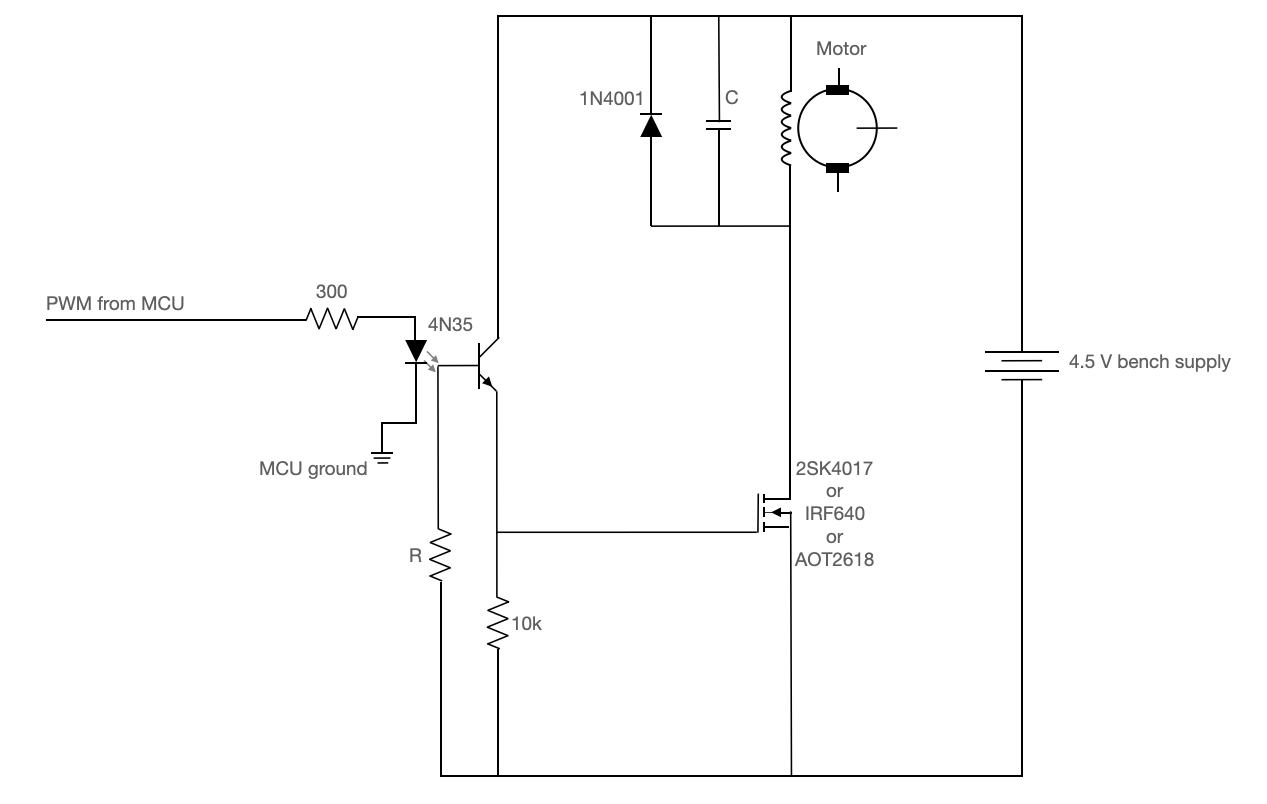
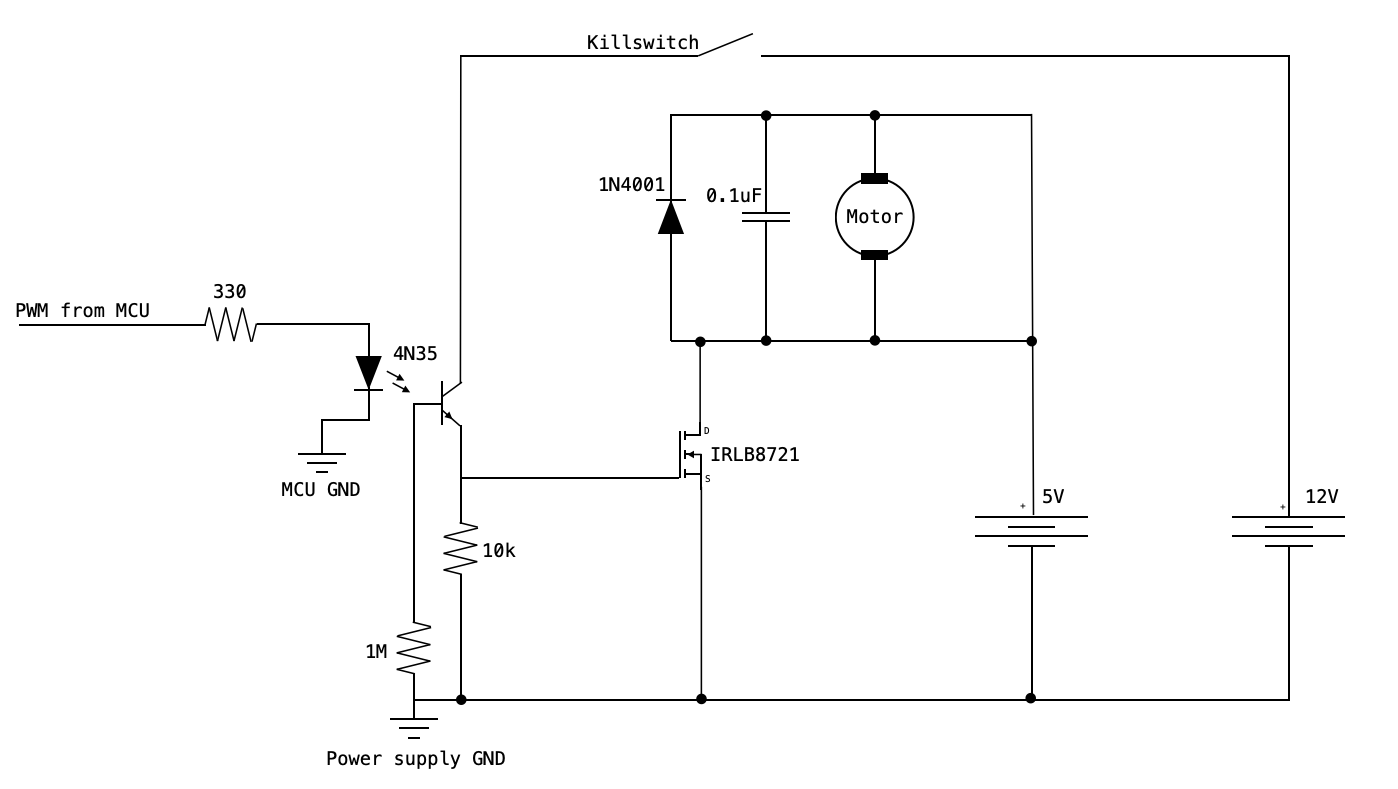
updated motor circuit page

diff --git a/Pico/Helicopter/MotorCircuit.html b/Pico/Helicopter/MotorCircuit.html
@@ -13077,7 +13077,7 @@ div#notebook {
 <div class="cell border-box-sizing text_cell rendered"><div class="prompt input_prompt">
 </div><div class="inner_cell">
 <div class="text_cell_render border-box-sizing rendered_html">
-<h1 id="DC-motor-circuit-and-PWM-on-RP2040">DC motor circuit and PWM on RP2040<a class="anchor-link" href="#DC-motor-circuit-and-PWM-on-RP2040">&#182;</a></h1><h4 id="V.-Hunter-Adams-(vha3@cornell.edu)">V. Hunter Adams (vha3@cornell.edu)<a class="anchor-link" href="#V.-Hunter-Adams-(vha3@cornell.edu)">&#182;</a></h4>
+<h1 id="DC-motor-circuit-and-PWM-on-RP2040">DC motor circuit and PWM on RP2040<a class="anchor-link" href="#DC-motor-circuit-and-PWM-on-RP2040">&#182;</a></h1><h4 id="V.-Hunter-Adams"><a href="https://vanhunteradams.com">V. Hunter Adams</a><a class="anchor-link" href="#V.-Hunter-Adams">&#182;</a></h4>
 </div>
 </div>
 </div>
@@ -13092,7 +13092,7 @@ div#notebook {
 <div class="cell border-box-sizing text_cell rendered"><div class="prompt input_prompt">
 </div><div class="inner_cell">
 <div class="text_cell_render border-box-sizing rendered_html">
-<h3 id="Overview-of-circuit">Overview of circuit<a class="anchor-link" href="#Overview-of-circuit">&#182;</a></h3><p>The motor circuit must protect the microcontroller from the large $L \frac{dI}{dt}$ voltage spikes that come off of a PWM-driven DC motor. The 4N35 optoisolator completely isolates the MCU from the motor. The 1N4001 snubber diode provides a path to ground for reverse-polarity spikes coming off the motor, and the capacitor in parallel with the 1N4001 provides a path to ground for higher frequency noise. Some of the components in this circuit require some experimentation/trial and error. The resistor attached to the base of the 4N35 should be set for best falltime, probably ~1MOhm. The capacitor in parallel with the motor should be ceramic (electrolytics are too slow) and should start with a value ~0.1uF. If there is too much spike noise on the analog input, this value can be increased.</p>
+<h3 id="Overview-of-circuit">Overview of circuit<a class="anchor-link" href="#Overview-of-circuit">&#182;</a></h3><p>The motor circuit must protect the microcontroller from the large $L \frac{dI}{dt}$ voltage spikes that come off of a PWM-driven DC motor. The 4N35 optoisolator completely isolates the MCU from the motor. The 1N4001 snubber diode provides a path to ground for reverse-polarity spikes coming off the motor, and the capacitor in parallel with the 1N4001 provides a path to ground for higher frequency noise. Some of the components in this circuit require some experimentation/trial and error. The resistor attached to the base of the 4N35 should be set for best falltime, probably ~1MOhm. The capacitor in parallel with the motor should be ceramic (electrolytics are too slow) and should start with a value ~0.1uF. If there is too much spike noise on the analog input, this value can be increased. Note that we're driving the gate of the power mosfet at 12V, and the motor at 5-6V.</p>
 <figure>
     <img align="center" width="700" height="500" src="motorcircuit.png" alt='missing' />
     <center><figcaption></figcaption></center>
@@ -13100,9 +13100,9 @@ div#notebook {
 <table><tr>
 <td> <img src="lab4_optoisolator.png" alt="Drawing" style="width: 150px;"/> </td>
 <td> <img src="lab4_BUZ71symbol.png" alt="Drawing" style="width: 150px;"/> </td>
-<td> <img src="irf640_picture.png" alt="Drawing" style="width: 150px;"/> </td>
-<td> <img src="lab3_aot_image.png" alt="Drawing" style="width: 150px;"/> </td>
-<td> <img src="lab4_SK_picture.png" alt="Drawing" style="width: 150px;"/> </td>
+<td> <img src="IRLB8721.png" alt="Drawing" style="width: 150px;"/> </td>
+<!-- <td> <img src="lab3_aot_image.png" alt="Drawing" style="width: 150px;"/> </td>
+<td> <img src="lab4_SK_picture.png" alt="Drawing" style="width: 150px;"/> </td> -->
 </tr></table>
 </div>
 </div>
@@ -13118,11 +13118,20 @@ div#notebook {
 <div class="cell border-box-sizing text_cell rendered"><div class="prompt input_prompt">
 </div><div class="inner_cell">
 <div class="text_cell_render border-box-sizing rendered_html">
-<h3 id="Building-and-debugging-the-circuit">Building and debugging the circuit<a class="anchor-link" href="#Building-and-debugging-the-circuit">&#182;</a></h3><p><strong>Do not build this whole circuit without testing as you go.</strong> Start by building the piece of the circuit indicated in the diagram below. Use the function generator to generate a PWM input, and use the oscilloscope to confirm that you're seeing a PWM output at the junction indicated.</p>
+<h3 id="Building-and-debugging-the-circuit">Building and debugging the circuit<a class="anchor-link" href="#Building-and-debugging-the-circuit">&#182;</a></h3><p><strong>You will not be building this circuit on a solderless breadboard. It would melt if you did so. (Ask me how I know).</strong> Instead, you will use a small solderboard. <a href="https://people.ece.cornell.edu/land/courses/ece4760/Analog/motor_controller/index_motor.html">Bruce has put together an excellent guide to help you do this</a>. This is more reliable, and reusable for other projects!</p>
+<p><strong>Do not build this whole circuit without testing as you go.</strong> Start by building the piece of the circuit indicated in the diagram below. Use the function generator to generate a PWM input, and use the oscilloscope to confirm that you're seeing a PWM output at the junction indicated.</p>
 <figure>
     <img align="center" width="700" height="500" src="motorcircuit_start.png" alt='missing' />
     <center><figcaption></figcaption></center>
 </figure><p>Only once you've confirmed that this part of the circuit works, add the rest. <strong>Double-check the gate/source/drain for the MOSFET.</strong> It is an easy mistake to swap drain for source.</p>
+
+</div>
+</div>
+</div>
+<div class="cell border-box-sizing text_cell rendered"><div class="prompt input_prompt">
+</div><div class="inner_cell">
+<div class="text_cell_render border-box-sizing rendered_html">
+<hr>
 
 </div>
 </div>

diff --git a/Pico/Helicopter/Helicopter.html b/Pico/Helicopter/Helicopter.html
@@ -13186,6 +13186,7 @@ div#notebook {
 <h4 id="Week-one-checkpoint">Week one checkpoint<a class="anchor-link" href="#Week-one-checkpoint">&#182;</a></h4><p>By the end of the lab session in week one of the lab you must have:</p>
 <ul>
 <li>The mechanical assembly finished and be able to control motor speed open loop, from the PWM output. <a href="https://github.com/vha3/Hunter-Adams-RP2040-Demos/tree/master/PWM/PWM_Demo">Here is some demo code</a> to get you started.</li>
+<li><strong>You will build your motor control circuit on a solderboard, not on the breadboard!</strong></li>
 <li><em>Finishing a checkpoint does NOT mean you can leave lab early!</em></li>
 </ul>
 <h4 id="Week-two-checkpoint">Week two checkpoint<a class="anchor-link" href="#Week-two-checkpoint">&#182;</a></h4><p>By the end of the lab session in week two of the lab you must have:</p>
